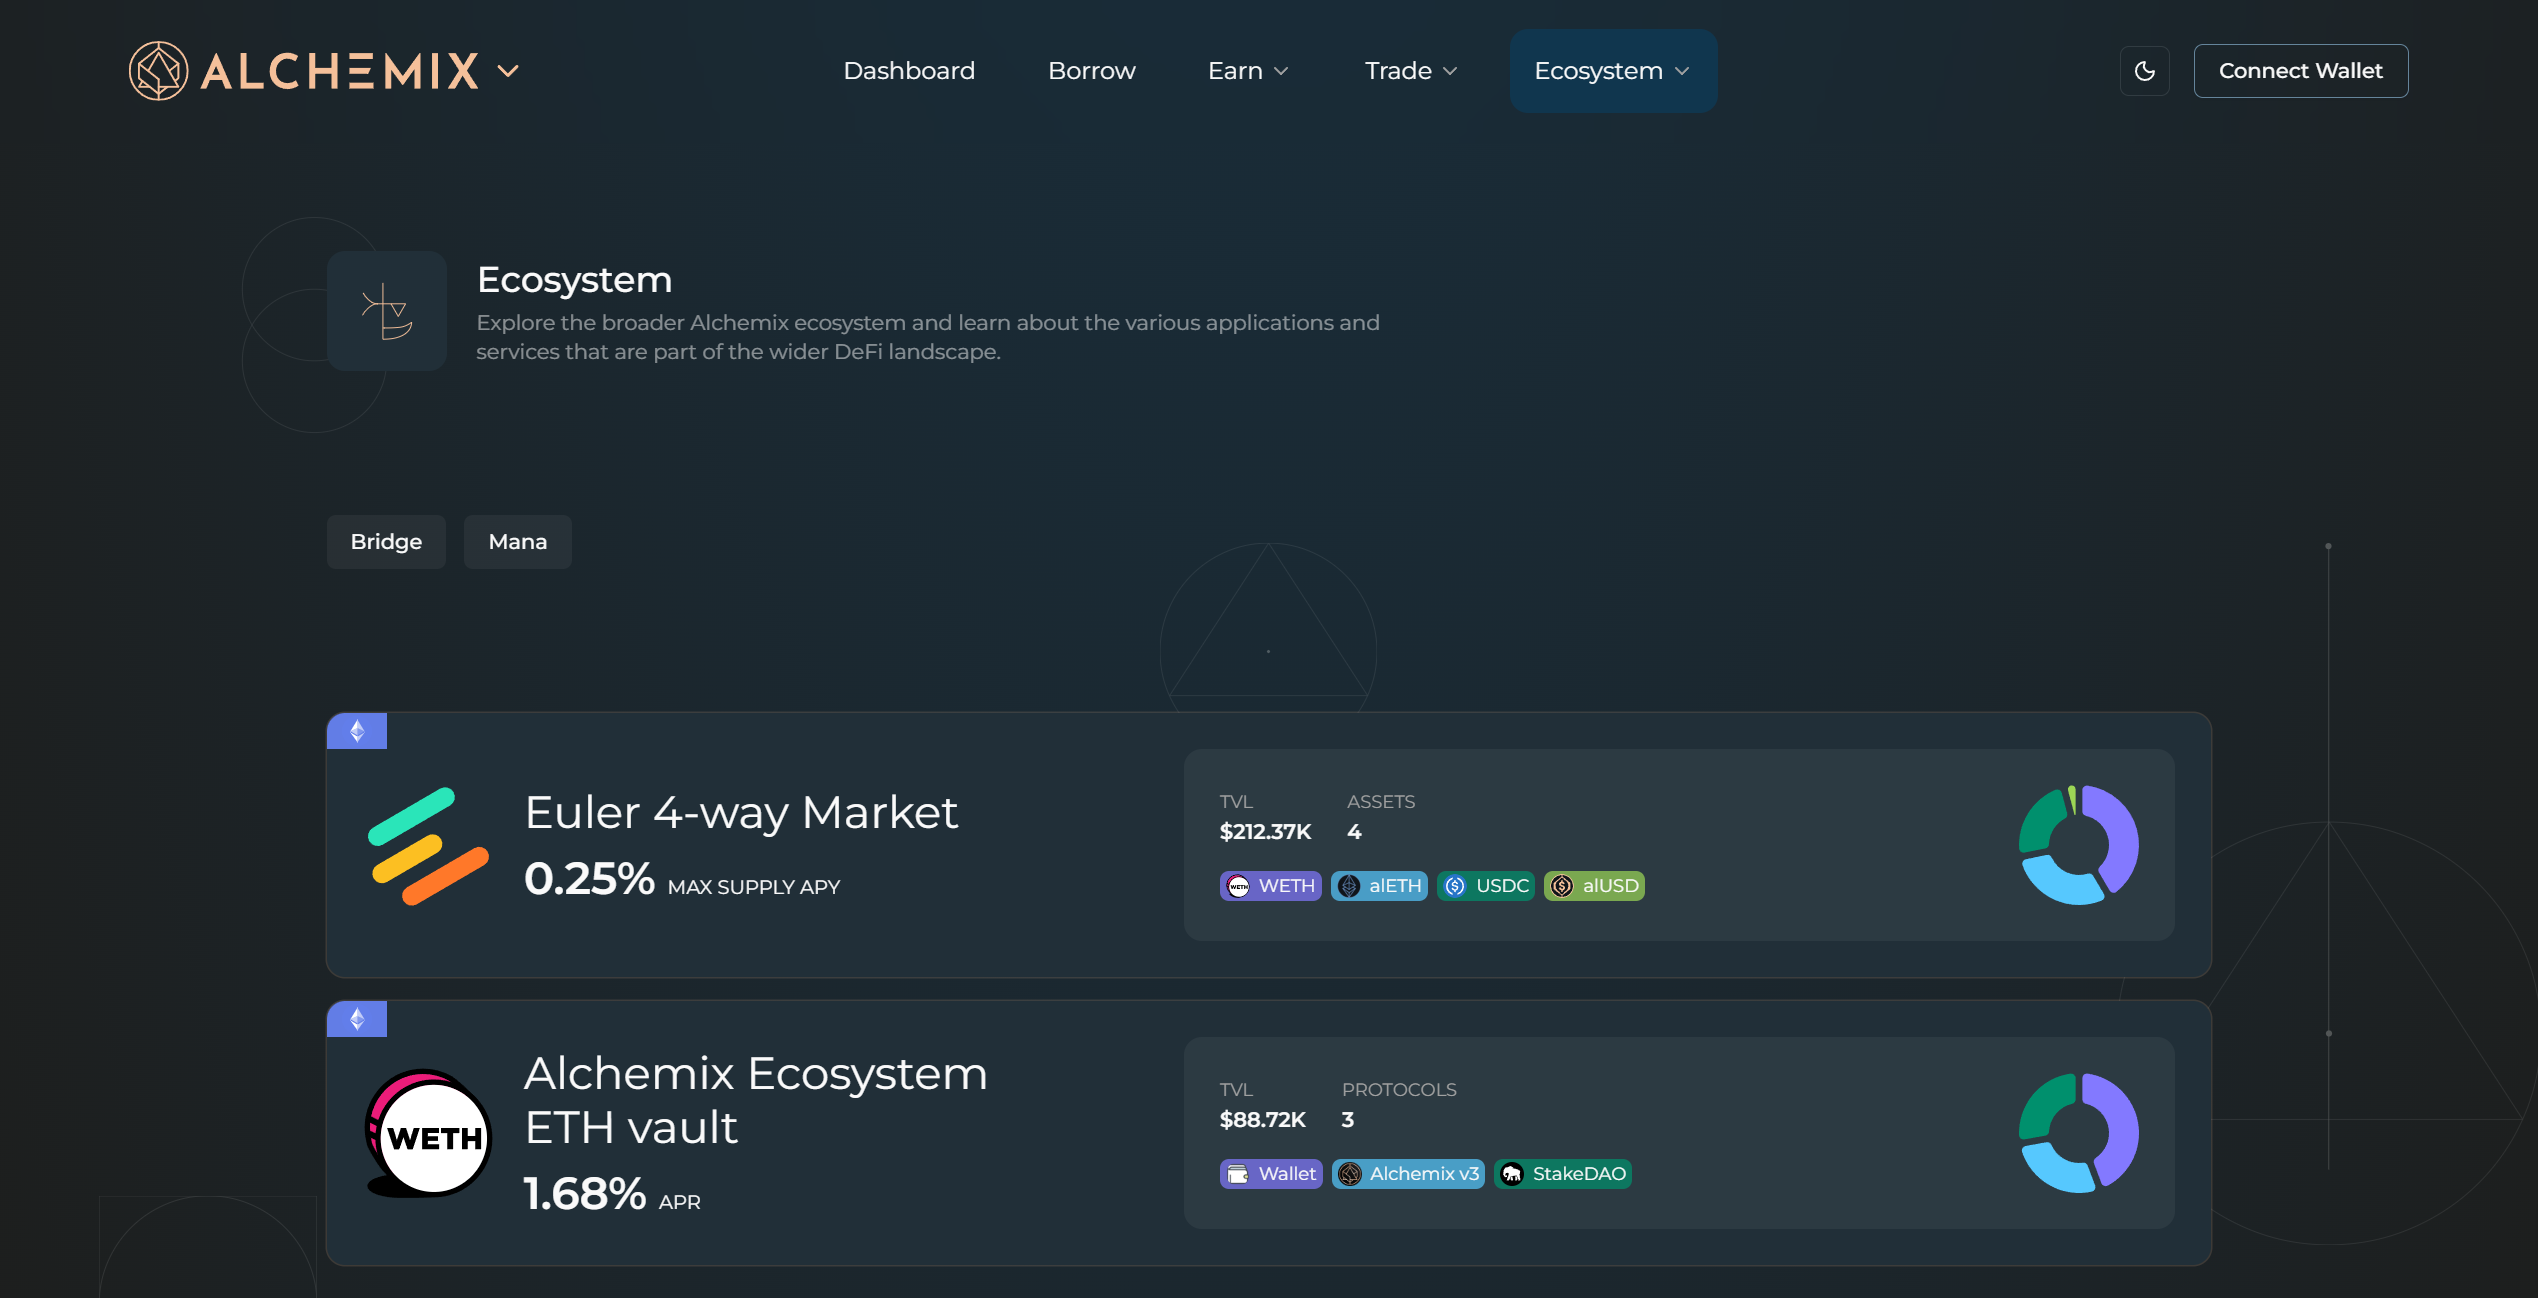
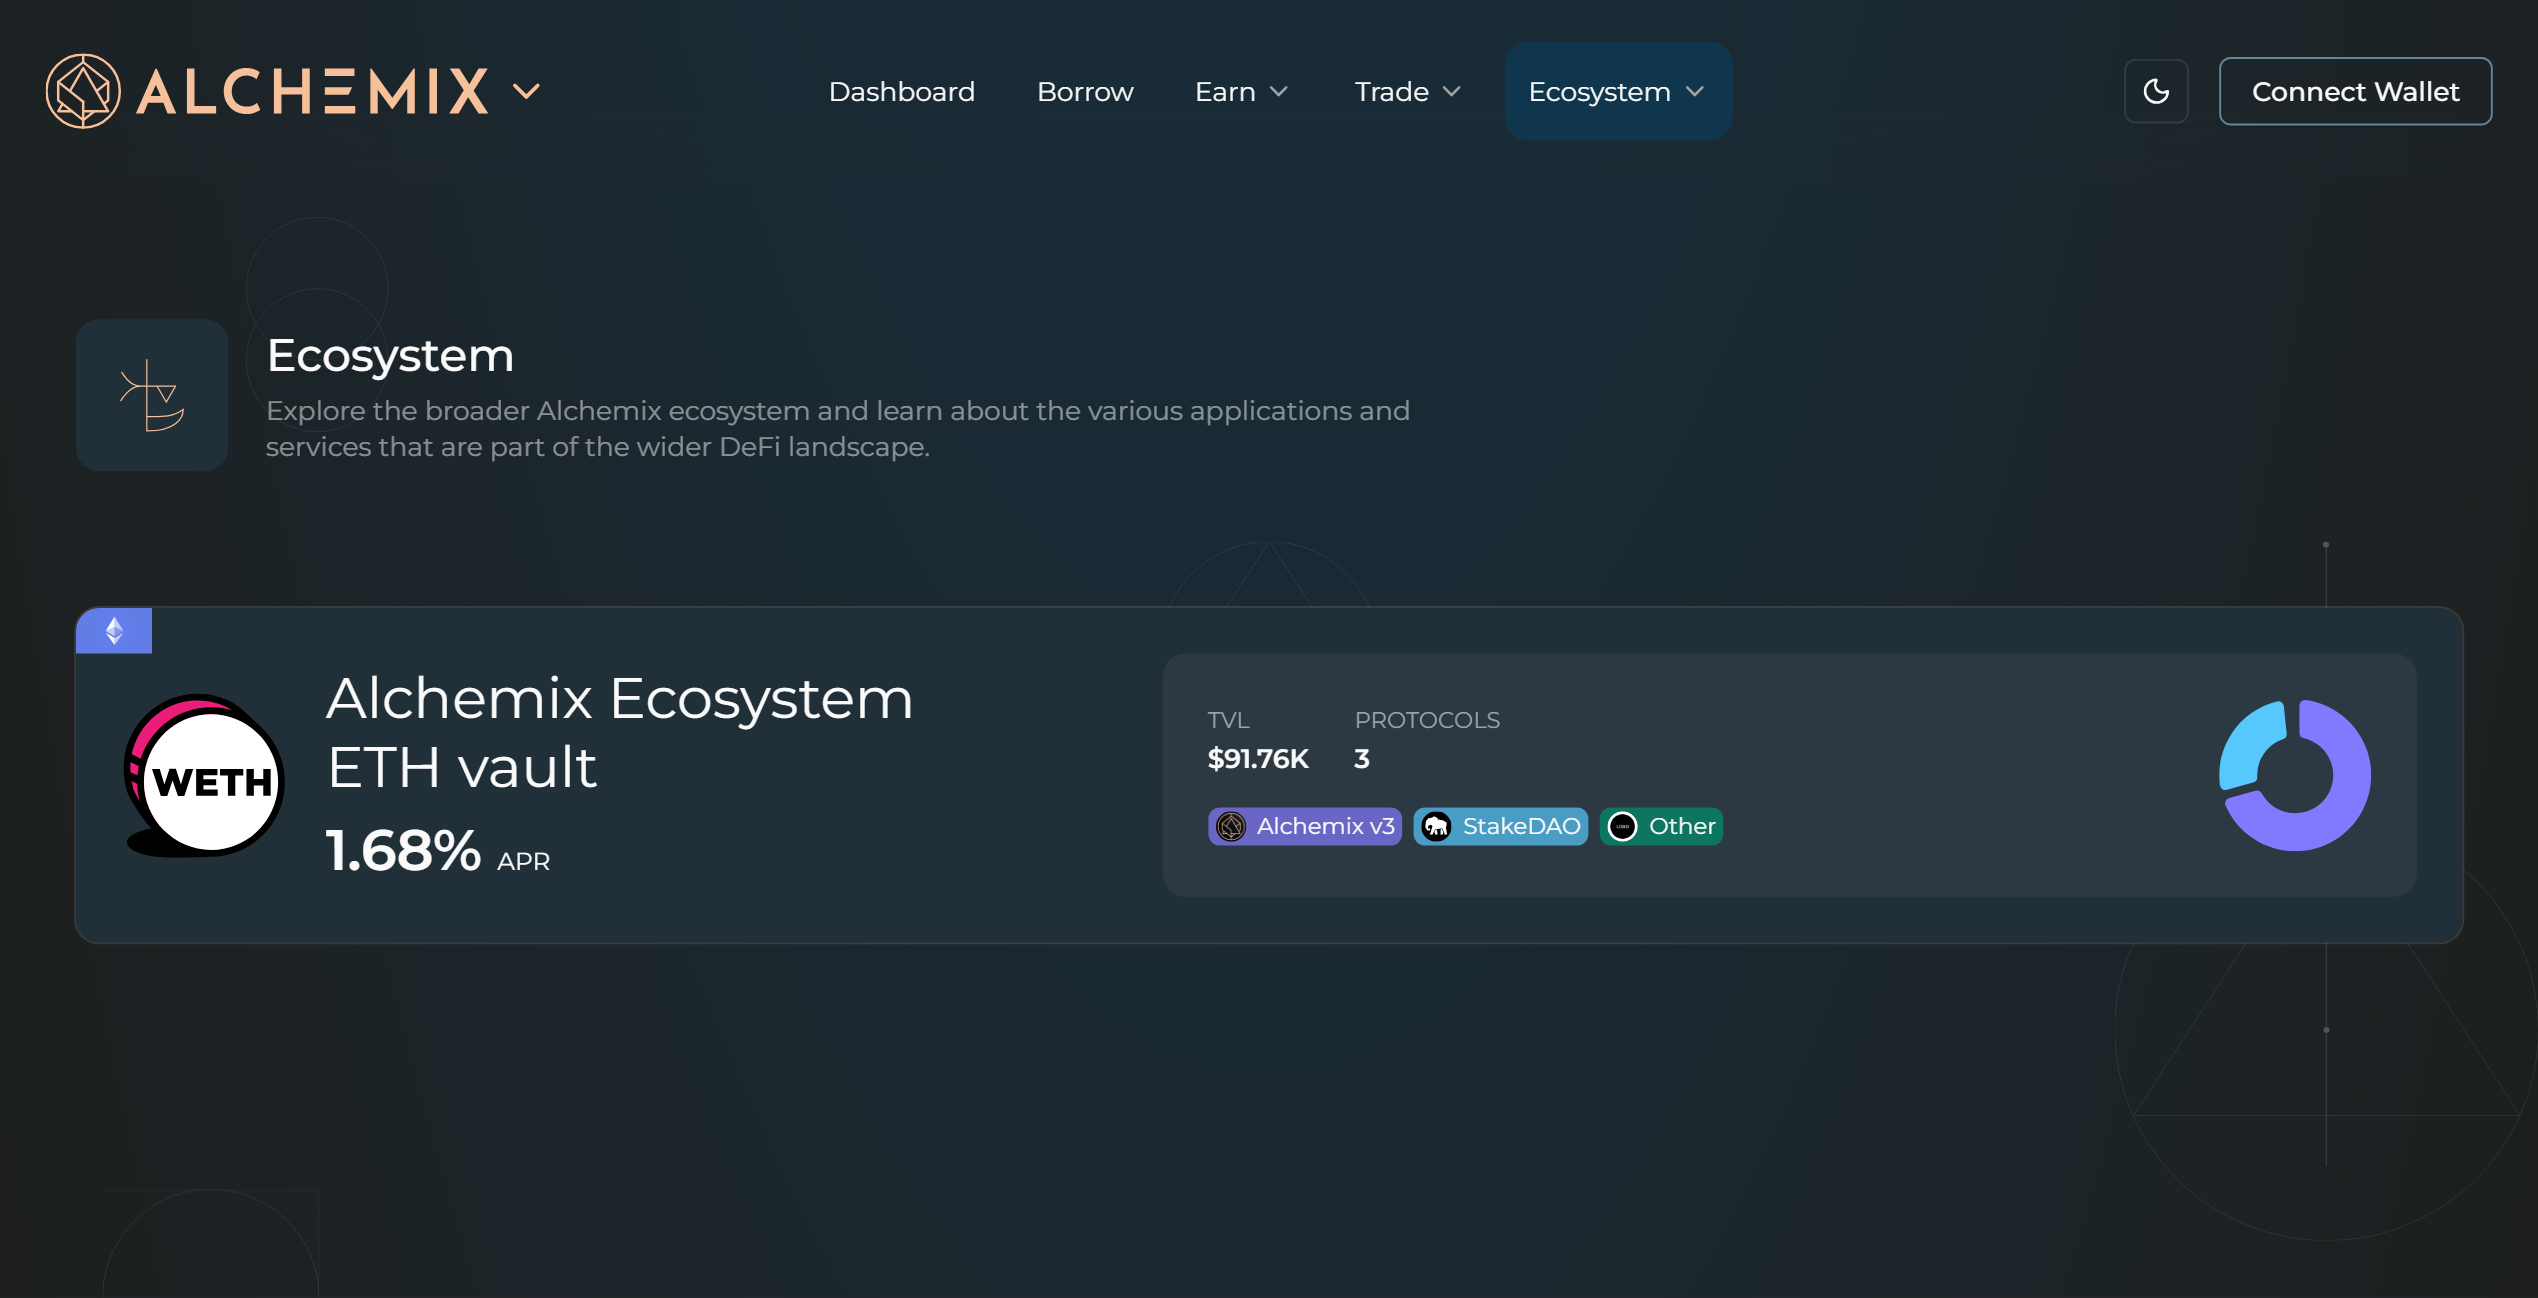
Visual content updated to accomodate new UI

diff --git a/scripts/generate-llms-full.js b/scripts/generate-llms-full.js
@@ -118,10 +118,16 @@ function cleanDoc(raw, glossary) {
   return { title, body: s };
 }
 
-/* Rewrite relative .md links to absolute site URLs so they work out of context */
-function absolutizeLinks(body, pageUrl) {
+/* Rewrite relative .md links to absolute site URLs so they work out of context.
+ *
+ * Markdown links resolve against the *directory* the file sits in, not the page
+ * itself, so the base must be the directory URL with a trailing slash. Resolving
+ * against the page URL instead (pageUrl + "/") treats the page as a folder and
+ * pushes every link one level too deep — "../concepts/fees.md" on a tutorials
+ * page came out as /user/tutorials/concepts/fees rather than /user/concepts/fees. */
+function absolutizeLinks(body, dirUrl) {
   return body.replace(/\]\((\.\.?\/[^)#]+?)\.md(#[^)]*)?\)/g, (_, rel, hash) => {
-    const resolved = new URL(rel, pageUrl + "/").href;
+    const resolved = new URL(rel, dirUrl).href;
     return `](${resolved}${hash || ""})`;
   });
 }
@@ -163,6 +169,14 @@ function routeFor(file, section) {
   return `${SITE}${section.route}${rel ? "/" + rel : ""}`;
 }
 
+/* URL of the directory a file lives in — the base relative links resolve against */
+function dirUrlFor(file, section) {
+  const rel = path
+    .relative(path.join(ROOT, section.dir), path.dirname(file))
+    .replace(/\\/g, "/");
+  return `${SITE}${section.route}${rel ? "/" + rel : ""}/`;
+}
+
 /* ── Main ── */
 const glossary = loadGlossary();
 const today = new Date().toISOString().slice(0, 10);
@@ -181,7 +195,7 @@ for (const section of SECTIONS) {
     const { title, body } = cleanDoc(fs.readFileSync(file, "utf8"), glossary);
     const name = title || path.basename(file, ".md");
     const url = routeFor(file, section);
-    out += `\n\n---\n\n## ${name}\n\nSource: ${url}\n\n${absolutizeLinks(body, url)}\n`;
+    out += `\n\n---\n\n## ${name}\n\nSource: ${url}\n\n${absolutizeLinks(body, dirUrlFor(file, section))}\n`;
   }
 }
 

diff --git a/docs/user/tutorials/ecosystem-vaults.md b/docs/user/tutorials/ecosystem-vaults.md
@@ -9,18 +9,19 @@ import FramedImage from "@site/src/components/FramedImage";
 
 <PageBanner title="Ecosystem Vaults" />
 
-The Ecosystem menu collects vaults and markets that sit alongside the core Alchemix protocol. Some are curated by the Alchemix team, others are third-party protocols that Alchemix links to but does not operate. Two are live today:
+Ecosystem vaults are curated by the Alchemix team and sit alongside the core protocol. One is live today: the **Alchemix Ecosystem ETH vault**, a WETH vault that earns a blended yield from across the Alchemix ecosystem.
 
-- **Alchemix Ecosystem ETH vault** – a curated WETH vault run by the Alchemix team.
-- **Euler 4-way market** – a third-party Euler lending market for WETH, USDC, alETH, and alUSD.
+Open it from the top navigation under **Ecosystem → Vaults**, or go directly to [alchemix.fi/ecosystem](https://alchemix.fi/ecosystem), then click the card to expand it.
 
-Open the Ecosystem ETH vault from the top navigation under Ecosystem → Vaults, or go directly to [alchemix.fi/ecosystem](https://alchemix.fi/ecosystem). The Euler market has its own page under Ecosystem → Lending, or go directly to [alchemix.fi/lending](https://alchemix.fi/lending). Click any card to expand it.
+:::note Looking for the Euler market?
+Third-party lending markets are not on this page. The Euler 4-way market has its own page under **Ecosystem → Lending** — see [Lending →](./lending.md).
+:::
 
 ### Prerequisites
 
 - Connect your wallet.
 - Confirm you have ETH for gas.
-- For the Ecosystem ETH vault you need WETH. For the Euler market you can supply WETH, USDC, alETH, or alUSD.
+- Hold WETH to deposit.
 
 ## Alchemix Ecosystem ETH vault
 
@@ -51,27 +52,3 @@ Stay on the Deposit tab. Enter the amount of WETH you want to deposit, or click 
 ### Step 4 – Withdraw
 
 Switch to the Withdraw tab when you want to exit. Claim your vault shares first, then submit the withdrawal. Withdrawals are batched and processed on the fortnightly cycle, so the funds return to your wallet once the next processing window completes.
-
-## Euler 4-way market
-
-The Euler 4-way market is an Euler lending market covering four assets: WETH, USDC, alETH, and alUSD. You can supply any of them to earn yield from borrower demand, and you can borrow against collateral you have supplied. The expanded card shows each asset’s total supplied, supply APY, and borrow APY.
-
-:::warning External market with liquidation risk
-Euler is a third-party lending market, not operated by Alchemix. Borrowing against your collateral exposes you to liquidation: if your collateral value falls relative to your debt, part of your collateral can be seized to repay it. Keep an eye on your health factor. See [liquidation risk →](../safety/risk-considerations.md#liquidation-risk) for background.
-:::
-
-### Step 1 – Read the market
-
-<FramedImage src="/img/ecosystem-vaults-03.png" alt="Euler 4-way market per-asset rate table" />
-
-Open the Lending page and expand the Euler 4-way market card. The table lists supply APY and borrow APY for each asset so you can compare what you would earn by lending against what you would pay to borrow.
-
-### Step 2 – Lend
-
-<FramedImage src="/img/ecosystem-vaults-04.png" alt="Euler Lend panel and Borrow positions section" />
-
-In the Lend panel on the left, choose your asset, enter an amount or click MAX, and supply it to start earning. Your supplied balance and its current APY appear above the input. Switch to the Withdraw tab to pull supplied assets back out, subject to available liquidity in the market.
-
-### Step 3 – Borrow
-
-Once you have supplied collateral, open a loan from the Borrow positions panel on the right. Each position is isolated, so you can run several at once against different collateral. Watch the health factor on every position: the closer it sits to the liquidation threshold, the smaller the drop in collateral value needed to trigger a liquidation.

diff --git a/docs/user/tutorials/lending.md b/docs/user/tutorials/lending.md
@@ -1,0 +1,58 @@
+---
+sidebar_position: 7
+hide_title: true
+title: Lending
+---
+
+import PageBanner from "@site/src/components/PageBanner";
+import FramedImage from "@site/src/components/FramedImage";
+
+<PageBanner title="Lending" />
+
+The Lending page lists third-party lending markets that Alchemix links to but does not operate. One is live today: the **Euler 4-way market**, covering WETH, USDC, alETH, and alUSD.
+
+Open it from the top navigation under **Ecosystem → Lending**, or go directly to [alchemix.fi/lending](https://alchemix.fi/lending), then click the card to expand it.
+
+:::note Separate from the Ecosystem vaults
+Lending is its own page. Vaults curated by the Alchemix team, such as the Alchemix Ecosystem ETH vault, live under Ecosystem → Vaults and are covered in [Ecosystem Vaults →](./ecosystem-vaults.md).
+:::
+
+### Prerequisites
+
+- Connect your wallet.
+- Confirm you have ETH for gas.
+- Hold WETH, USDC, alETH, or alUSD to supply.
+
+## Euler 4-way market
+
+The Euler 4-way market is an Euler lending market covering four assets: WETH, USDC, alETH, and alUSD. You can supply any of them to earn yield from borrower demand, and you can borrow against collateral you have supplied.
+
+Listing alETH and alUSD here is what lets you put an alAsset to work without selling it. See [alAssets →](../concepts/alAssets.md) for why that matters to the peg.
+
+:::warning External market with liquidation risk
+Euler is a third-party lending market, not operated by Alchemix. Borrowing against your collateral exposes you to liquidation. If your collateral value falls relative to your debt, part of your collateral can be liquidated to repay it. Keep an eye on your health factor. See [liquidation risk →](../safety/risk-considerations.md#liquidation-risk).
+
+This is separate from Alchemix's own vaults, which carry no price-based liquidation. Borrowing on Euler does not behave like a self-repaying loan.
+:::
+
+### Step 1 – Open the market
+
+<FramedImage src="/img/lending-01.png" alt="Lending page with the Euler 4-way market card" />
+
+Open the Lending page from Ecosystem → Lending. The card header shows the market's total value locked, the four assets it covers, and the highest supply APY on offer. Below it sits the per-asset table, and below that the Borrow positions panel.
+
+### Step 2 – Read the market
+
+<FramedImage src="/img/lending-02.png" alt="Euler 4-way market per-asset rate table" />
+
+Each row lists how much of that asset is supplied and borrowed across the market, your own supplied and borrowed balances, and the supply and borrow APY, with accompanying Supply and Borrow buttons. Compare the two rates to see what you would earn by lending against what you would pay to borrow.
+
+### Step 3 – Lend
+
+<FramedImage src="/img/lending-03.png" alt="Euler Lend panel and Borrow positions section" />
+
+In the Lend panel on the left, choose your asset, enter an amount or click MAX, and supply it to start earning. Your supplied balance and its current APY appear above the input. Switch to the Withdraw tab to pull supplied assets back out, subject to available liquidity in the market.
+
+### Step 4 – Borrow
+
+Once you have supplied collateral, open a loan from the Borrow positions panel on the right. Each position is isolated, so you can run several at once against different collateral. Make sure you watch the health factor on every position. The closer it sits to the liquidation threshold, the smaller the drop in collateral value needed to trigger a liquidation.

diff --git a/docs/user/concepts/alAssets.md b/docs/user/concepts/alAssets.md
@@ -62,7 +62,7 @@ Historically alAssets were used primarily inside the Alchemix ecosystem, because
 
 In practice this means you can hold an alAsset and put it to work elsewhere rather than selling it: for example, supplying alETH to an external lending market to borrow against it. Because holders can deploy alAssets instead of selling them, sell pressure drops, which reinforces the price and strengthens the soft peg for everyone.
 
-See where alAssets can be put to work, including external lending markets like the Euler alAsset market, on the [Alchemix ecosystem page →](https://alchemix.fi/ecosystem).
+See where alAssets can be put to work in external lending markets like the Euler 4-way market on the app's Lending page, under Ecosystem → Lending. The [Lending tutorial →](../tutorials/lending.md) walks through supplying and borrowing there.
 
 ### LTV sensitivity
 
